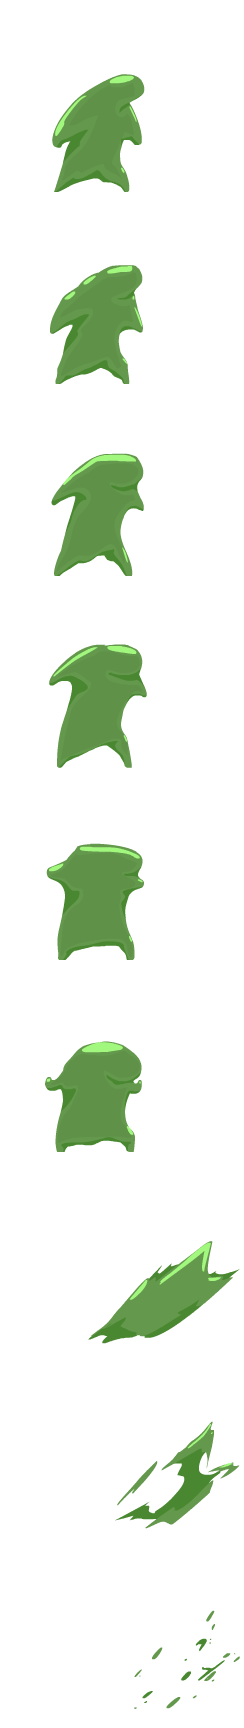
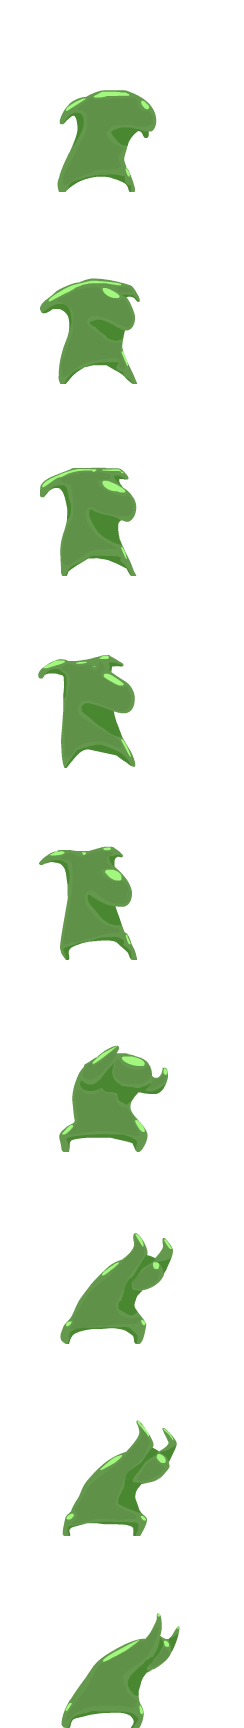
Nueva forma virus

diff --git a/CombateElVirus/src/VirusBaba.cpp b/CombateElVirus/src/VirusBaba.cpp
@@ -11,76 +11,42 @@ VirusBaba::~VirusBaba() {
 
 VirusBaba::VirusBaba() {
 
+    anchura = 6*0.4;
+    altura = 6*0.4;
 
 }
 
-VirusBaba::VirusBaba(float x, float y, float w, float h, int lateral, int ataque, int muere) {
-
- 
-
-        anchura = 0.4 * w;//Redimensionamos ya que el recorte de la imagen no es perfecta
-        altura = 0.4 * h;
-
-        posicion.x = x;
-        posicion.y = y;
-
-        //Permisos de el tipo de virus
-
-        permitirlateral = lateral;
-        permitirataque = ataque;
-        permitirmuerte = muere;
-
-        //Creacion de los objetos sprites
-
-        sprite = new SpriteSequence("imagenes/enemigos/virusbabaanda.png", 7, 1, 25, true, 0, 0, w, h);
-
-        //Creamos los sprites de movimientos laterales
-
-        if (permitirlateral == 1) {
-
-            spriteder = new SpriteSequence("imagenes/enemigos/virusbabader.png", 1, 9, 90, true, 0, 0, w, h);
-
-        }
-
-        if (permitirataque == 1) {
-
-            spriteataca = new SpriteSequence("imagenes/enemigos/virusbabaataca.png", 1, 9, 25, true, 0, 0, w, h);
-        }
-
-       
-
-    }
-
-
-
-void VirusBaba::Inicializa(float x, float y, float w, float h, int lateral, int ataque, int muere) {
-
-    anchura = 0.4 * w;//Redimensionamos ya que el recorte de la imagen no es perfecta
-    altura = 0.4 * h;
+VirusBaba::VirusBaba(float x, float y) {
 
     posicion.x = x;
     posicion.y = y;
-    velocidad.x = 1;
-    //Permisos de el tipo de virus
-   
-    permitirlateral = lateral;
-    permitirataque = ataque;
-    permitirmuerte = muere;
 
-    sprite = new SpriteSequence("imagenes/enemigos/virusbabaanda.png", 7, 1, 80, true, 0, 0, w, h);
-
-    //Creamos los sprites de movimientos laterales
-
-    if (permitirlateral == 1) {
-
-        spriteder = new SpriteSequence("imagenes/enemigos/virusbabader.png", 1, 9, 90, true, 0, 0, w, h);
-
-    }
-
-    if (permitirataque == 1) {
-
-        spriteataca = new SpriteSequence("imagenes/enemigos/virusbabaataca.png", 1, 9, 25, true, 0, 0, w, h);
-    }
+    sprite = new SpriteSequence("imagenes/enemigos/virusbabaanda.png", 7, 1, 80, true, 0, 0, 6, 6);
 
 }
+
+
+
+void VirusBaba::Inicializa(float x, float y) {
+
+    posicion.x = x;
+    posicion.y = y;
+
+    sprite = new SpriteSequence("imagenes/enemigos/virusbabaanda.png", 7, 1, 80, true, 0, 0, 6, 6);
+
+}
+
+void VirusBaba::Ataca() {
+
+    sprite = new SpriteSequence("imagenes/enemigos/virusbabaataca.png", 1, 9, 90, false, 0, 0, 6, 6);
+
+}
+
+void VirusBaba::Desaparece() {
+
+    sprite = new SpriteSequence("imagenes/enemigos/virusbabades.png", 1, 9, 90, true, 0, 0, 6, 6);
+
+}
+
+
 

diff --git a/CombateElVirus/src/Virus.cpp b/CombateElVirus/src/Virus.cpp
@@ -28,41 +28,8 @@ void Virus::Dibuja(int nivel)
 {
     glTranslatef(posicion.x, posicion.y, 0);
    
-    //Dependiendo de los permisos y las acciones dibuja un srpite u otro
-   
-   
-    if (ataque == 1) {
-            spriteataca->draw();
-    }
-    if (anda == 1) {
+    sprite->draw();
 
-       if(lateral==1){
-            if (velocidad.x > 0) {
-                spriteder->draw();
-            }
-            if (velocidad.x < 0) {
-                spriteizq->draw();
-            }
-       }
-       else {
-           sprite->draw();
-       }
-    }
-    if (muere == 1) {
-
-         spritemuere->draw();
-    }
-
-
-    //if (muere == 1) {
-    //    glTranslatef(-0.5, 0, 0); //Para que la sangre salga del lateral, estaria mejor con W
-    //    spritemuere->draw();
-    //    glTranslatef(+0.5, 0, 0);
-    //    if (lateral == 1) {
-    //        spriteizq->draw();
-    //    }
-    //    else { sprite->draw(); }
-    //}
     glTranslatef(-posicion.x, -posicion.y, 0);
 
 }
@@ -72,16 +39,14 @@ void Virus::Muere(ETSIDI::Vector2D vectormuerte)
     //spritemuere->setCenter(10, 3);
       //  spritemuere->setPos(10,3);
 
-    if (permitirmuerte == 1) {
+  
         spritemuere->setAngle(vectormuerte.argument() * 180 / 3.14159265); //Hay que mirar si la funcion vector 2d de etsidi tiene argumento (atan(vectormuerte.y/vectormuerte.x)
-        muere = 1;
-        anda = 0;
-        ataque = 0;
+       
 
         ETSIDI::play("mis_sonidos/virusmuere1.wav");
         /*glutPostRedisplay();
         glutTimerFunc(2500,Muere, 0);*/
-    }
+ 
     
 }
 
@@ -91,55 +56,13 @@ void Virus::SetVel(float vx, float vy)
     velocidad.y = vy;
 }
 
-void Virus::Ataca()
-{
-    if (permitirataque == 1) {
-        ataque = 1;
-        muere = 0;
-        lateral = 0;
-        anda = 0;
-    }
-
-}
-
-void Virus::Anda()
-{
-    anda = 1;
-    if(permitirlateral==1){
-        lateral = 1;
-    }
-    muere = 0;
-    ataque = 0;
-   
-
-}
 
 void Virus::Mueve(float t) {
 
     posicion = posicion + velocidad * t + aceleracion * (0.5f * t * t);
     velocidad = velocidad + aceleracion * t;
 
-    if (ataque == 1) {
-        spriteataca->loop();
-    }
-    if (anda == 1) {
-
-        if (lateral == 1) {
-            if (velocidad.x > 0) {
-                spriteder->loop();
-            }
-            if (velocidad.x < 0) {
-                spriteizq->loop();
-            }
-        }
-        else {
-            sprite->loop();
-        }
-    }
-    if (muere == 1) {
-
-        spritemuere->loop();
-    }
+    sprite->loop();
 }
 
 

diff --git a/CombateElVirus/src/VirusSeta.cpp b/CombateElVirus/src/VirusSeta.cpp
@@ -11,50 +11,32 @@ VirusSeta::~VirusSeta() {
 
 VirusSeta::VirusSeta() {
 
-
+    anchura = 0.4 * 3;
+    altura = 0.4 * 3;
 }
 
-VirusSeta::VirusSeta(float x, float y, float w, float h, int lateral, int ataque, int muere) {
+VirusSeta::VirusSeta(float x, float y) {
 
-
-    anchura = 0.4 * w;//Redimensionamos ya que el recorte de la imagen no es perfecta
-    altura = 0.4 * h;
 
     posicion.x = x;
     posicion.y = y;
 
-    //Permisos de el tipo de virus
-
-    permitirlateral = lateral;
-    permitirataque = ataque;
-    permitirmuerte = muere;
-
     //Creacion de los objetos sprites
 
-    sprite = new SpriteSequence("imagenes/enemigos/virusseta.png", 8, 1, 40, true, 0, 0, w, h);
+    sprite = new SpriteSequence("imagenes/enemigos/virusseta.png", 8, 1, 40, true, 0, 0, 3, 3);
 
 }
 
 
-void VirusSeta::Inicializa(float x, float y, float w, float h, int lateral, int ataque, int muere) {
+void VirusSeta::Inicializa(float x, float y) {
 
   
-
-    anchura = 0.4 * w;//Redimensionamos ya que el recorte de la imagen no es perfecta
-    altura = 0.4 * h;
-
     posicion.x = x;
     posicion.y = y;
 
-    //Permisos de el tipo de virus
-
-    permitirlateral = lateral;
-    permitirataque = ataque;
-    permitirmuerte = muere;
-
     //Creacion de los objetos sprites
 
-    sprite = new SpriteSequence("imagenes/enemigos/virusseta.png", 8, 1, 25, true, 0, 0, w, h);
+    sprite = new SpriteSequence("imagenes/enemigos/virusseta.png", 8, 1, 40, true, 0, 0, 3, 3);
 
 }
 

diff --git a/CombateElVirus/src/Mundo.cpp b/CombateElVirus/src/Mundo.cpp
@@ -39,10 +39,10 @@ void Mundo::Inicializa()
 	entorno.Fin(pantalla);
 	personajes.Inicializa(hombre);	
 	
-	virus1.Inicializa( 10, -3, 3, 3, 0, 0, 0);
-	virus1.Anda();
-	virus2.Inicializa(-5, 1, 8, 8, 1, 1, 1);
-	virus2.Anda();
+	virus1.Inicializa( 10, -3);
+	
+	virus2.Inicializa(-5, 1);
+	
 
 
 	limites.SetLimites(-20, 500, -3.5, 30); //Son los bordes del juego que el jugador no puede pasar	
@@ -359,6 +359,10 @@ void Mundo::Tecla(unsigned char key)
 		switch (key) {
 		case 'm':
 			virus2.Ataca();
+
+			break;
+		case 'n':
+			virus2.Desaparece();
 
 			break;
 		case 'w':

diff --git a/CombateElVirus/src/VirusBaba.h b/CombateElVirus/src/VirusBaba.h
@@ -6,10 +6,12 @@
 class VirusBaba : public Virus
 {
 public:
-    VirusBaba(float x, float y, float w, float h, int lateral, int ataque, int muere);
+    VirusBaba(float x, float y);
     ~VirusBaba();
-    void Inicializa(float x, float y, float w, float h, int lateral, int ataque, int muere);
+    void Inicializa(float x, float y);
     VirusBaba();
+    void Ataca();
+    void Desaparece();
 
 
 

diff --git a/CombateElVirus/src/VirusSeta.h b/CombateElVirus/src/VirusSeta.h
@@ -5,9 +5,9 @@
 class VirusSeta : public Virus 
 {
     public:
-    VirusSeta(float x, float y, float w, float h, int lateral, int ataque, int muere);
+    VirusSeta(float x, float y);
     ~VirusSeta();
-    void Inicializa(float x, float y, float w, float h, int lateral, int ataque, int muere);
+    void Inicializa(float x, float y);
     void Seguir(Hombre h);
     VirusSeta();
 
